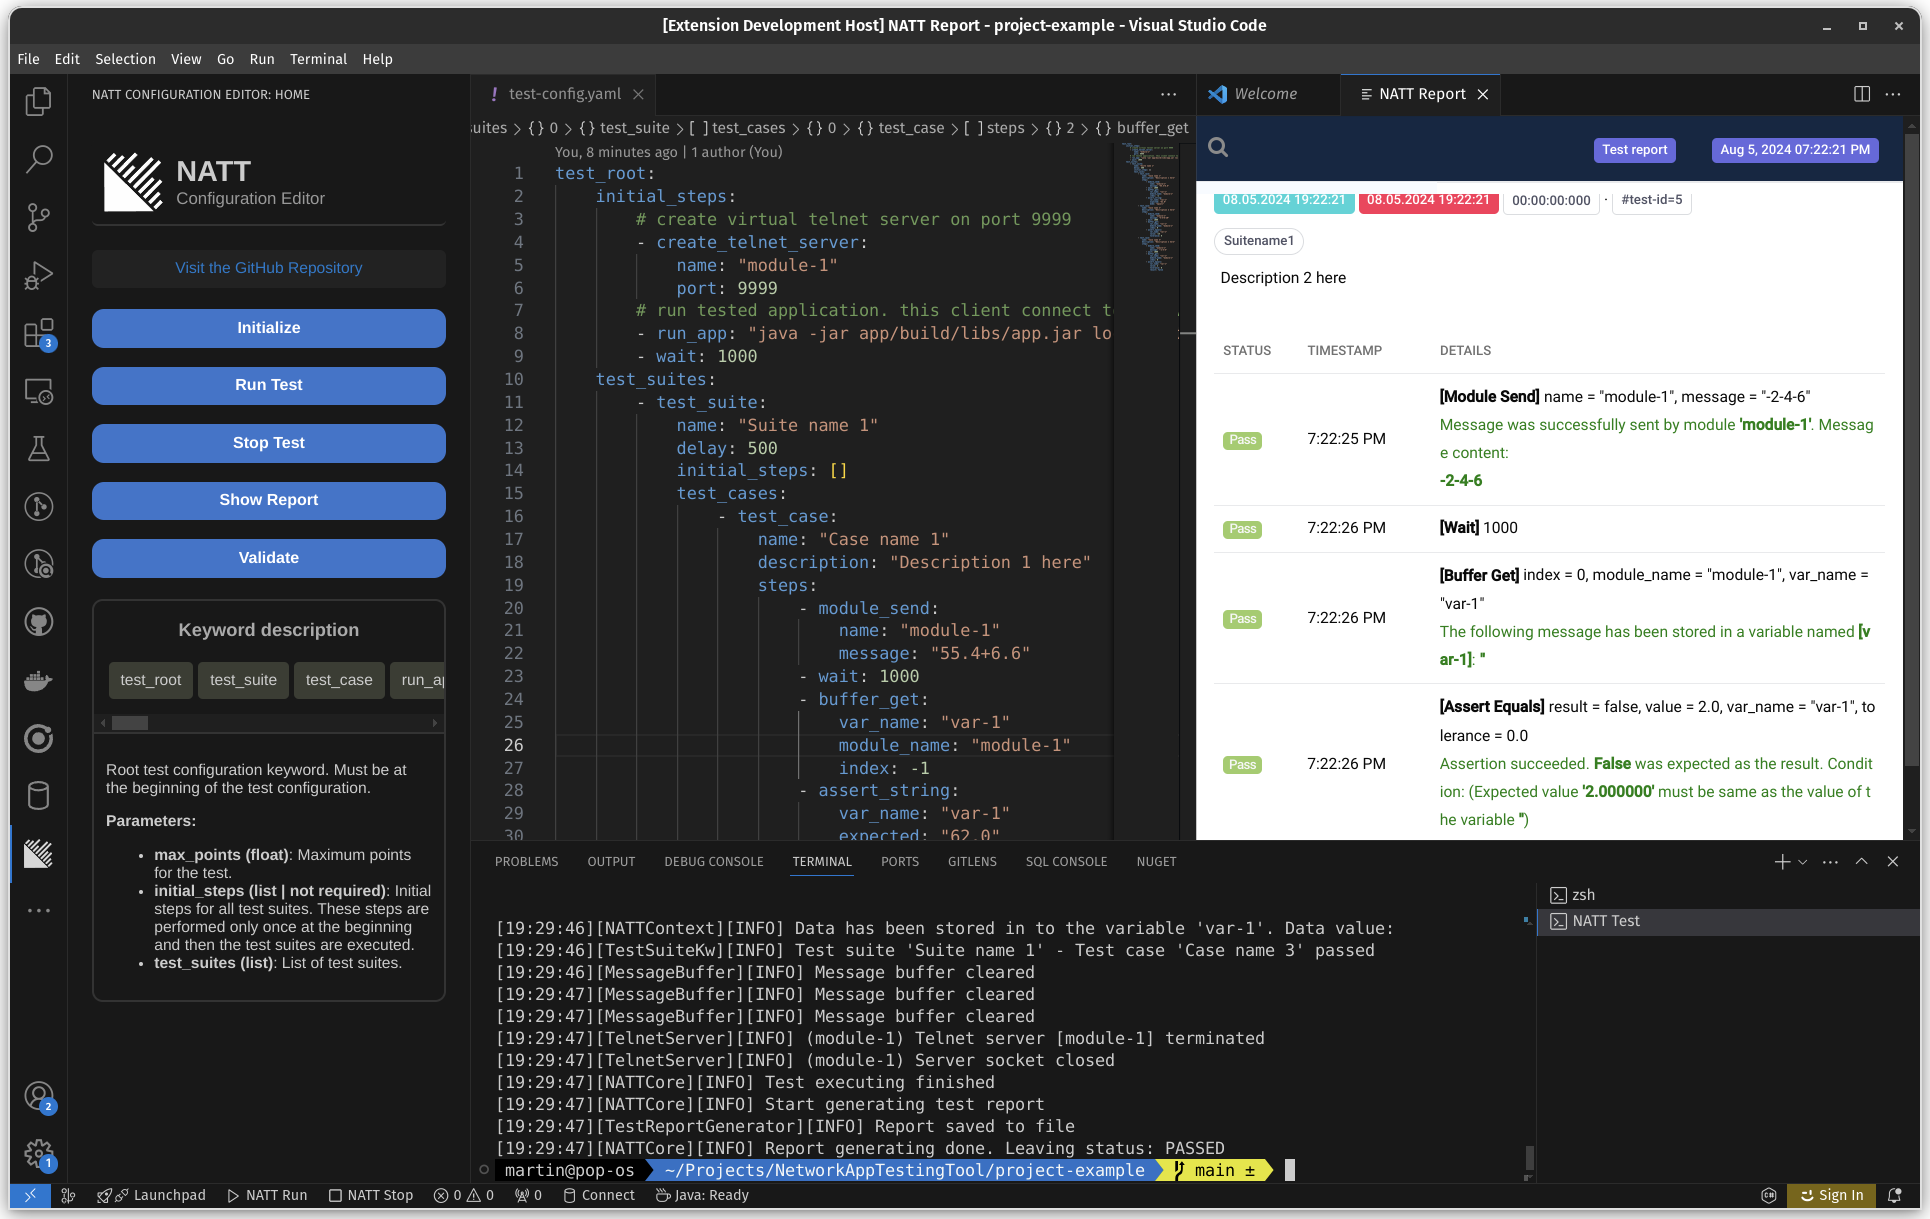
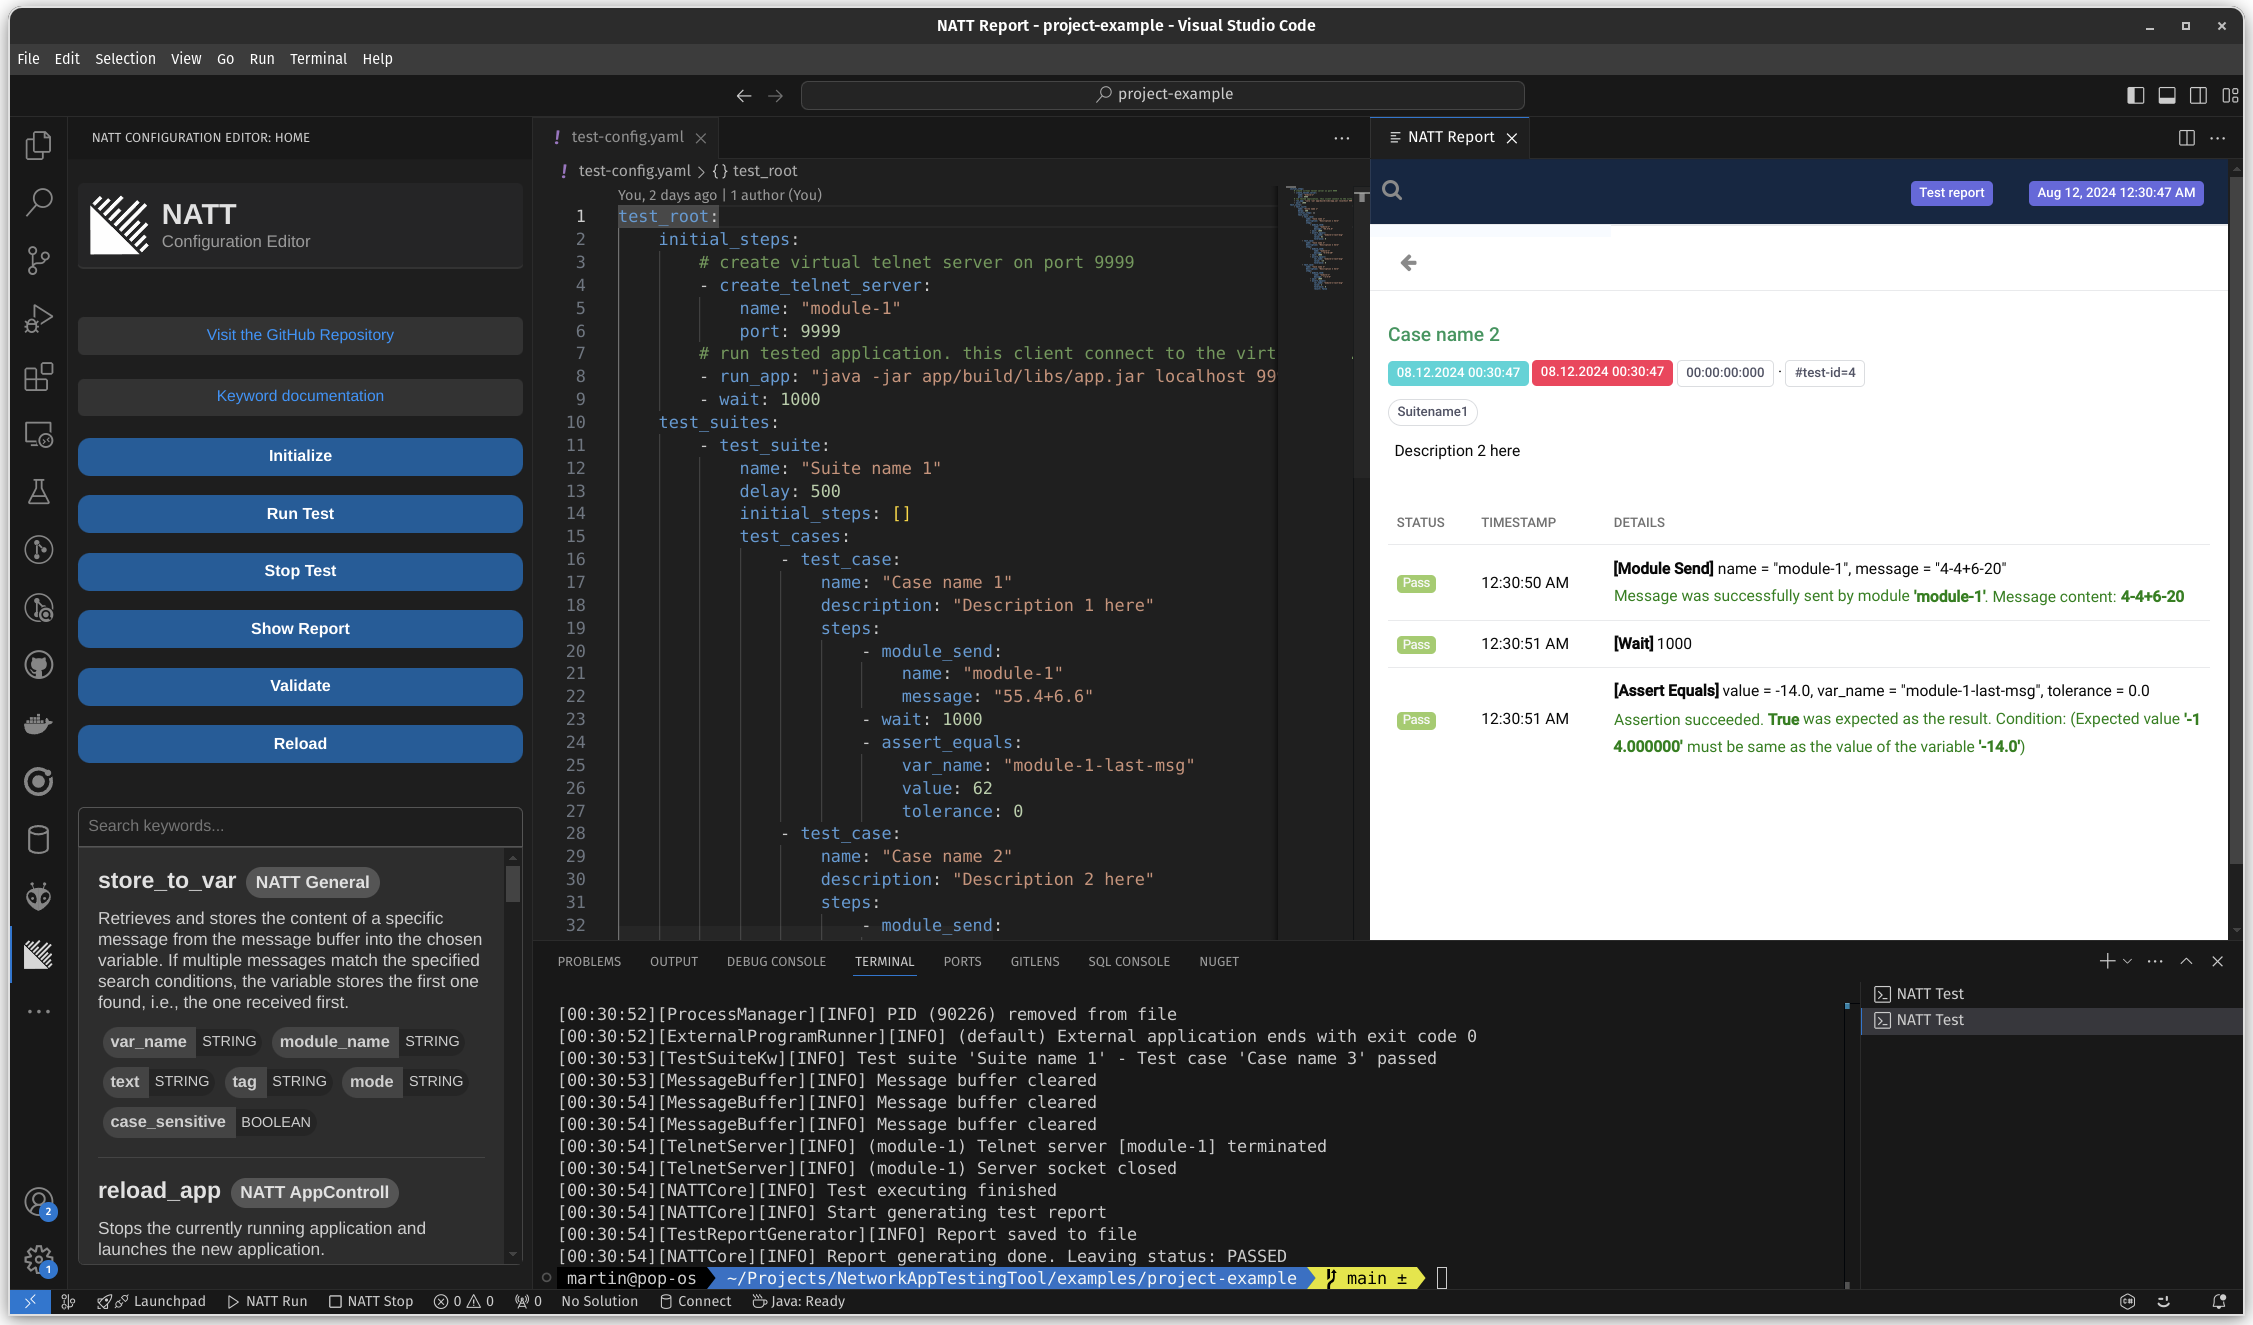
update

diff --git a/examples/project-example/test_report.html b/examples/project-example/test_report.html
@@ -35,7 +35,7 @@
 <a href="#"><span class="badge badge-primary">Test report</span></a>
 </li>
 <li class="m-r-10">
-<a href="#"><span class="badge badge-primary">Aug 11, 2024 11:22:44 PM</span></a>
+<a href="#"><span class="badge badge-primary">Aug 12, 2024 12:30:47 AM</span></a>
 </li>
 </ul>
 </div>
@@ -92,7 +92,7 @@
           <div class="test-detail">
             <p class="name">Test root initialization</p>
             <p class="text-sm">
-              <span>23:22:44 PM</span> / <span>00:00:00:001</span>
+              <span>00:30:47 AM</span> / <span>00:00:00:001</span>
               <span class="badge pass-bg log float-right">Pass</span>
             </p>
           </div>
@@ -101,8 +101,8 @@
 <div class="p-v-10">
 <div class="info">
 <h5 class="test-status text-pass">Test root initialization</h5>
-<span class='badge badge-success'>08.11.2024 23:22:44</span>
-<span class='badge badge-danger'>08.11.2024 23:22:44</span>
+<span class='badge badge-success'>08.12.2024 00:30:47</span>
+<span class='badge badge-danger'>08.12.2024 00:30:47</span>
 <span class='badge badge-default'>00:00:00:001</span>
 &middot; <span class='uri-anchor badge badge-default'>#test-id=1</span>
 </div>
@@ -114,21 +114,21 @@
   <tbody>
       <tr class="event-row">
         <td><span class="badge log pass-bg">Pass</span></td>
-        <td>11:22:44 PM</td>
+        <td>12:30:47 AM</td>
         <td>
           <b>[Create Telnet Server]</b> port = 9999, name = "module-1"<br><font color="green">The module with name 'module-1' is running.</font>
         </td>
       </tr>
       <tr class="event-row">
         <td><span class="badge log pass-bg">Pass</span></td>
-        <td>11:22:44 PM</td>
+        <td>12:30:47 AM</td>
         <td>
           <b>[Run App]</b> "java -jar app/build/libs/app.jar localhost 9999"
         </td>
       </tr>
       <tr class="event-row">
         <td><span class="badge log pass-bg">Pass</span></td>
-        <td>11:22:45 PM</td>
+        <td>12:30:48 AM</td>
         <td>
           <b>[Wait]</b> 1000
         </td>
@@ -145,7 +145,7 @@
           <div class="test-detail">
             <p class="name">Test suite 'Suite name 1' initialization</p>
             <p class="text-sm">
-              <span>23:22:44 PM</span> / <span>00:00:00:000</span>
+              <span>00:30:47 AM</span> / <span>00:00:00:000</span>
               <span class="badge pass-bg log float-right">Pass</span>
             </p>
           </div>
@@ -154,8 +154,8 @@
 <div class="p-v-10">
 <div class="info">
 <h5 class="test-status text-pass">Test suite 'Suite name 1' initialization</h5>
-<span class='badge badge-success'>08.11.2024 23:22:44</span>
-<span class='badge badge-danger'>08.11.2024 23:22:44</span>
+<span class='badge badge-success'>08.12.2024 00:30:47</span>
+<span class='badge badge-danger'>08.12.2024 00:30:47</span>
 <span class='badge badge-default'>00:00:00:000</span>
 &middot; <span class='uri-anchor badge badge-default'>#test-id=2</span>
 </div>
@@ -171,7 +171,7 @@
           <div class="test-detail">
             <p class="name">Case name 1</p>
             <p class="text-sm">
-              <span>23:22:44 PM</span> / <span>00:00:00:000</span>
+              <span>00:30:47 AM</span> / <span>00:00:00:000</span>
               <span class="badge pass-bg log float-right">Pass</span>
             </p>
           </div>
@@ -180,8 +180,8 @@
 <div class="p-v-10">
 <div class="info">
 <h5 class="test-status text-pass">Case name 1</h5>
-<span class='badge badge-success'>08.11.2024 23:22:44</span>
-<span class='badge badge-danger'>08.11.2024 23:22:44</span>
+<span class='badge badge-success'>08.12.2024 00:30:47</span>
+<span class='badge badge-danger'>08.12.2024 00:30:47</span>
 <span class='badge badge-default'>00:00:00:000</span>
 &middot; <span class='uri-anchor badge badge-default'>#test-id=3</span>
 </div>
@@ -194,21 +194,21 @@
   <tbody>
       <tr class="event-row">
         <td><span class="badge log pass-bg">Pass</span></td>
-        <td>11:22:45 PM</td>
+        <td>12:30:48 AM</td>
         <td>
           <b>[Module Send]</b> name = "module-1", message = "55.4+6.6"<br><font color="green">Message was successfully sent by module <b>'module-1'</b>. Message content: <b>55.4+6.6</b></font>
         </td>
       </tr>
       <tr class="event-row">
         <td><span class="badge log pass-bg">Pass</span></td>
-        <td>11:22:46 PM</td>
+        <td>12:30:49 AM</td>
         <td>
           <b>[Wait]</b> 1000
         </td>
       </tr>
       <tr class="event-row">
         <td><span class="badge log pass-bg">Pass</span></td>
-        <td>11:22:46 PM</td>
+        <td>12:30:49 AM</td>
         <td>
           <b>[Assert Equals]</b> value = 62.0, var_name = "module-1-last-msg", tolerance = 0.0<br><font color="green">Assertion succeeded. <b>True</b> was expected as the result. Condition: (Expected value <b>'62.000000'</b> must be same as the value of the variable <b>'62.0'</b>)</font>
         </td>
@@ -225,7 +225,7 @@
           <div class="test-detail">
             <p class="name">Case name 2</p>
             <p class="text-sm">
-              <span>23:22:44 PM</span> / <span>00:00:00:000</span>
+              <span>00:30:47 AM</span> / <span>00:00:00:000</span>
               <span class="badge pass-bg log float-right">Pass</span>
             </p>
           </div>
@@ -234,8 +234,8 @@
 <div class="p-v-10">
 <div class="info">
 <h5 class="test-status text-pass">Case name 2</h5>
-<span class='badge badge-success'>08.11.2024 23:22:44</span>
-<span class='badge badge-danger'>08.11.2024 23:22:44</span>
+<span class='badge badge-success'>08.12.2024 00:30:47</span>
+<span class='badge badge-danger'>08.12.2024 00:30:47</span>
 <span class='badge badge-default'>00:00:00:000</span>
 &middot; <span class='uri-anchor badge badge-default'>#test-id=4</span>
 </div>
@@ -248,21 +248,21 @@
   <tbody>
       <tr class="event-row">
         <td><span class="badge log pass-bg">Pass</span></td>
-        <td>11:22:47 PM</td>
+        <td>12:30:50 AM</td>
         <td>
           <b>[Module Send]</b> name = "module-1", message = "4-4+6-20"<br><font color="green">Message was successfully sent by module <b>'module-1'</b>. Message content: <b>4-4+6-20</b></font>
         </td>
       </tr>
       <tr class="event-row">
         <td><span class="badge log pass-bg">Pass</span></td>
-        <td>11:22:48 PM</td>
+        <td>12:30:51 AM</td>
         <td>
           <b>[Wait]</b> 1000
         </td>
       </tr>
       <tr class="event-row">
         <td><span class="badge log pass-bg">Pass</span></td>
-        <td>11:22:48 PM</td>
+        <td>12:30:51 AM</td>
         <td>
           <b>[Assert Equals]</b> value = -14.0, var_name = "module-1-last-msg", tolerance = 0.0<br><font color="green">Assertion succeeded. <b>True</b> was expected as the result. Condition: (Expected value <b>'-14.000000'</b> must be same as the value of the variable <b>'-14.0'</b>)</font>
         </td>
@@ -279,7 +279,7 @@
           <div class="test-detail">
             <p class="name">Case name 3</p>
             <p class="text-sm">
-              <span>23:22:44 PM</span> / <span>00:00:00:000</span>
+              <span>00:30:47 AM</span> / <span>00:00:00:000</span>
               <span class="badge pass-bg log float-right">Pass</span>
             </p>
           </div>
@@ -288,8 +288,8 @@
 <div class="p-v-10">
 <div class="info">
 <h5 class="test-status text-pass">Case name 3</h5>
-<span class='badge badge-success'>08.11.2024 23:22:44</span>
-<span class='badge badge-danger'>08.11.2024 23:22:44</span>
+<span class='badge badge-success'>08.12.2024 00:30:47</span>
+<span class='badge badge-danger'>08.12.2024 00:30:47</span>
 <span class='badge badge-default'>00:00:00:000</span>
 &middot; <span class='uri-anchor badge badge-default'>#test-id=5</span>
 </div>
@@ -302,21 +302,21 @@
   <tbody>
       <tr class="event-row">
         <td><span class="badge log pass-bg">Pass</span></td>
-        <td>11:22:48 PM</td>
+        <td>12:30:52 AM</td>
         <td>
           <b>[Module Send]</b> name = "module-1", message = "-2-4-6"<br><font color="green">Message was successfully sent by module <b>'module-1'</b>. Message content: <b>-2-4-6</b></font>
         </td>
       </tr>
       <tr class="event-row">
         <td><span class="badge log pass-bg">Pass</span></td>
-        <td>11:22:49 PM</td>
+        <td>12:30:53 AM</td>
         <td>
           <b>[Wait]</b> 1000
         </td>
       </tr>
       <tr class="event-row">
         <td><span class="badge log pass-bg">Pass</span></td>
-        <td>11:22:49 PM</td>
+        <td>12:30:53 AM</td>
         <td>
           <b>[Assert Equals]</b> result = false, value = 2.0, var_name = "module-1-last-msg", tolerance = 0.0<br><font color="green">Assertion succeeded. <b>False</b> was expected as the result. Condition: (Expected value <b>'2.000000'</b> must be same as the value of the variable <b>'-14.0'</b>)</font>
         </td>
@@ -367,28 +367,28 @@
 <tbody>
 <tr class="tag-test-status" status="pass">
 <td><span class="badge log pass-bg">Pass</span></td>
-<td>23:22:44 PM</td>
+<td>00:30:47 AM</td>
 <td>
 <a href="#" class="linked" test-id='2' id='2'>Test suite 'Suite name 1' initialization</a>
 </td>
 </tr>
 <tr class="tag-test-status" status="pass">
 <td><span class="badge log pass-bg">Pass</span></td>
-<td>23:22:44 PM</td>
+<td>00:30:47 AM</td>
 <td>
 <a href="#" class="linked" test-id='3' id='3'>Case name 1</a>
 </td>
 </tr>
 <tr class="tag-test-status" status="pass">
 <td><span class="badge log pass-bg">Pass</span></td>
-<td>23:22:44 PM</td>
+<td>00:30:47 AM</td>
 <td>
 <a href="#" class="linked" test-id='4' id='4'>Case name 2</a>
 </td>
 </tr>
 <tr class="tag-test-status" status="pass">
 <td><span class="badge log pass-bg">Pass</span></td>
-<td>23:22:44 PM</td>
+<td>00:30:47 AM</td>
 <td>
 <a href="#" class="linked" test-id='5' id='5'>Case name 3</a>
 </td>
@@ -410,13 +410,13 @@
 <div class="col-md-3">
 <div class="card"><div class="card-body">
 <p class="m-b-0">Started</p>
-<h3>Aug 11, 2024 11:22:44 PM</h3>
+<h3>Aug 12, 2024 12:30:47 AM</h3>
 </div></div>
 </div>
 <div class="col-md-3">
 <div class="card"><div class="card-body">
 <p class="m-b-0">Ended</p>
-<h3>Aug 11, 2024 11:22:44 PM</h3>
+<h3>Aug 12, 2024 12:30:47 AM</h3>
 </div></div>
 </div>
 <div class="col-md-3">
